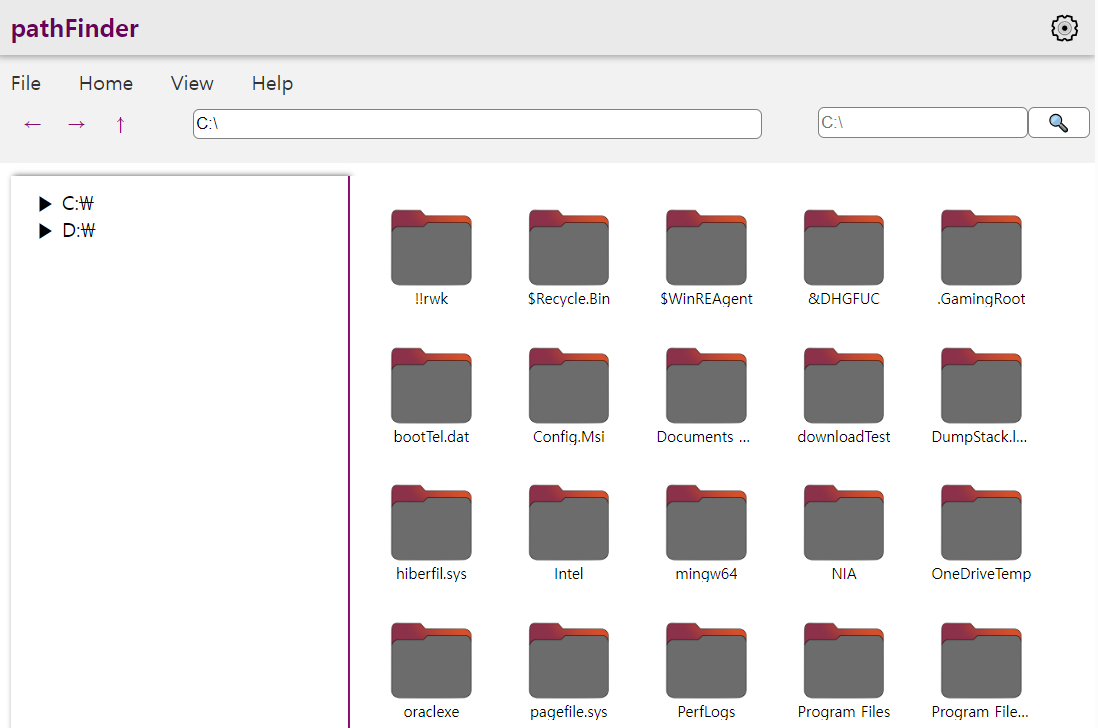
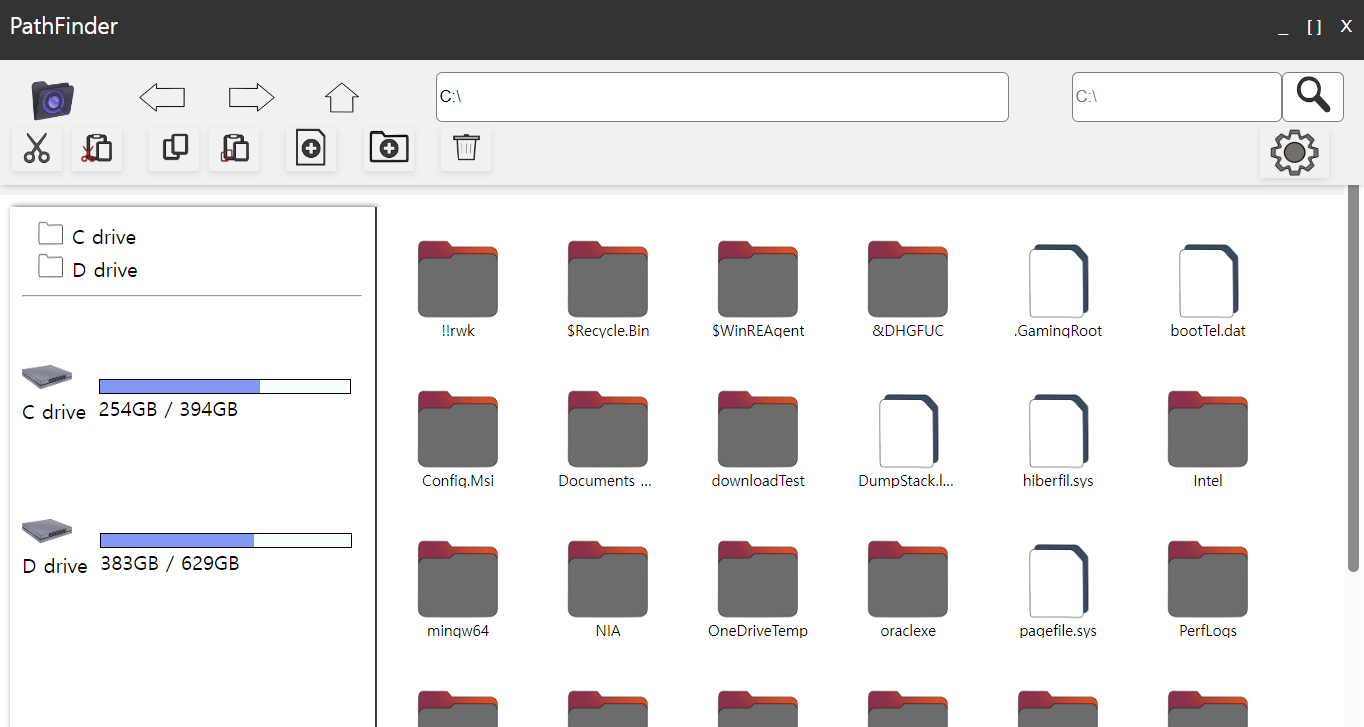
README.md update

diff --git a/README.md b/README.md
@@ -18,14 +18,85 @@ we developed a file explorer project with key strengths such as fast search spee
 
 ## Main Features
 
-- Fast Search
-- Various themes
-- Selectable Languanges
+- Search with Various options
+- Selectable Util buttons & UI sets
 
-## Tech Stack
+## Feature Details
 
-- Tauri / Rust / Tokio
-- SvelteKit / TypeScript
+### Utils
+- All utility buttons can be placed on the screen according to user settings.
+- Cut / Copy / Paste
+  - Separate operations exist for Copy with Paste and Cut with Paste. As a result, the copy and cut clipboards are independent, allowing both tasks to proceed simultaneously without conflicts. Additionally, clipboard contents can be visually inspected.
+
+  - Copy principle: A copy receives the suffix _copy. If a name conflict occurs, numbering is applied.
+
+- Delete
+
+- Create New Folder / Create New File
+  - For new files, they are generated in the format new.txt to prevent name conflicts. If a conflict occurs, numbering is applied.
+- shortcut
+  - copy : ctrl + c
+  - copy-paste : ctrl + v
+  - cut : ctrl + x
+  - cut-paste : ctrl + shift + x
+  - delete(move to recycle bin) : del
+  - select all : ctrl + a
+- Todos : customize shortcut / configurable newly created file or folder's name(if file, type too)
+
+### UI configurable settings
+  - File viewer each icon's area size
+  - entire themes
+    - Default / Linux-theme / Retro-theme / Dark-theme
+  - Languague
+    - now available : EN, KR
+  - Util buttons deployment
+
+
+### Search basic features
+- Asynchronous processing
+- Multi-threaded parallel processing
+- Cache based on search history
+- Real-time search result display
+- Search cancellation supported
+
+
+### Advanced Search features
+- Thread pool configuration
+  - Default / 4 / 8 / 16 / 32
+- Search targets can be specified
+  - Folders & files
+  - Files only
+  - Folders only
+- Search within file contents:
+  - Be aware that this may cause performance degradation.
+  - Applied only to text files.
+  - Special similarity-based search methods do not search within file contents.
+- File attribute filtering:
+  - File size: Up to 100GB
+    - Folder size filtering is not yet supported: Recursive traversal of folders may cause significant performance degradation.
+  - Creation date
+  - Modification date
+  - File type: Input as a list of extensions. Example: .txt .pdf
+  - File owner:
+    - Retrieving file owner via shell commands may cause performance issues.
+    - Requires administrator privileges.
+- Search symbolic links:
+  - Be cautious, as symbolic links can create circular references.
+  - No logic to handle circular references has been implemented yet.
+
+- Search methods:
+  - If access permission issues occur, the search will skip the path and continue.
+  - Basic search: Checks if the search string is contained within the target (contains operation).
+  - Regular expressions: Must be written according to Rust regex syntax.
+  - Fuzzy Matching 1: Damerau-Levenshtein distance
+  - Fuzzy Matching 2: Jaccard Similarity
+      - The threshold used for fuzzy matching is specified in a separate JSON file.
+Option to generate search logs.
+
+## Tech
+
+- Tauri / Rust
+- SvelteKit
 
 ## System Architecture
 <p>
@@ -81,7 +152,9 @@ we developed a file explorer project with key strengths such as fast search spee
 
 
 ## Projects Settings
-- Prerequisite : npm, Tauri CLI
+### development env
+- npm 10.5.0
+- rust & cargo 1.79.0
 
 - Download
 
@@ -137,7 +210,3 @@ cargo doc --no-deps --open
 
 >[ref](https://tauri.app/ko/v1/guides/getting-started/setup/sveltekit/)
 
-### Install Tauri cli
-```bash
-npm install --save-dev @tauri-apps/cli
-```
